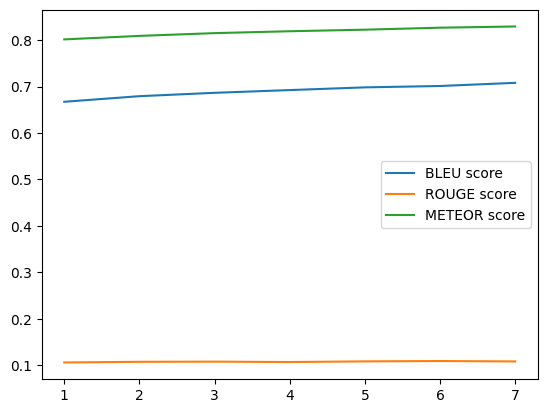
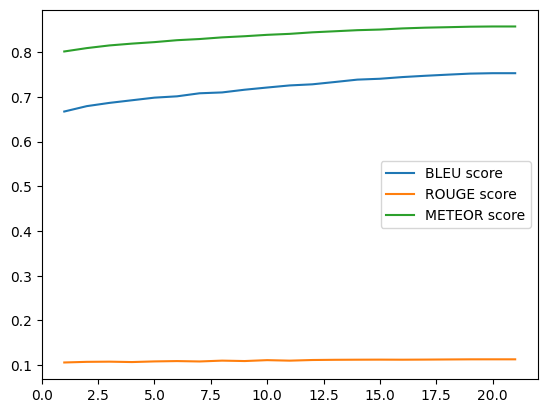
update learn.py and learning.png

diff --git a/learn.py b/learn.py
@@ -138,7 +138,7 @@ training_args = Seq2SeqTrainingArguments(
     output_dir=f"{LOCATION}/model-bart", # 모델 저장 경로
     overwrite_output_dir=True,  # 기존 모델을 덮어쓰기
     learning_rate=lr,  # 학습률 설정
-    num_train_epochs=20,  # 학습 에포크 설정
+    num_train_epochs=50,  # 학습 에포크 설정
     evaluation_strategy="epoch",  # 평가 스트레티지 설정
     per_device_train_batch_size=16,  # 배치 크기 설정
     per_device_eval_batch_size=16,
